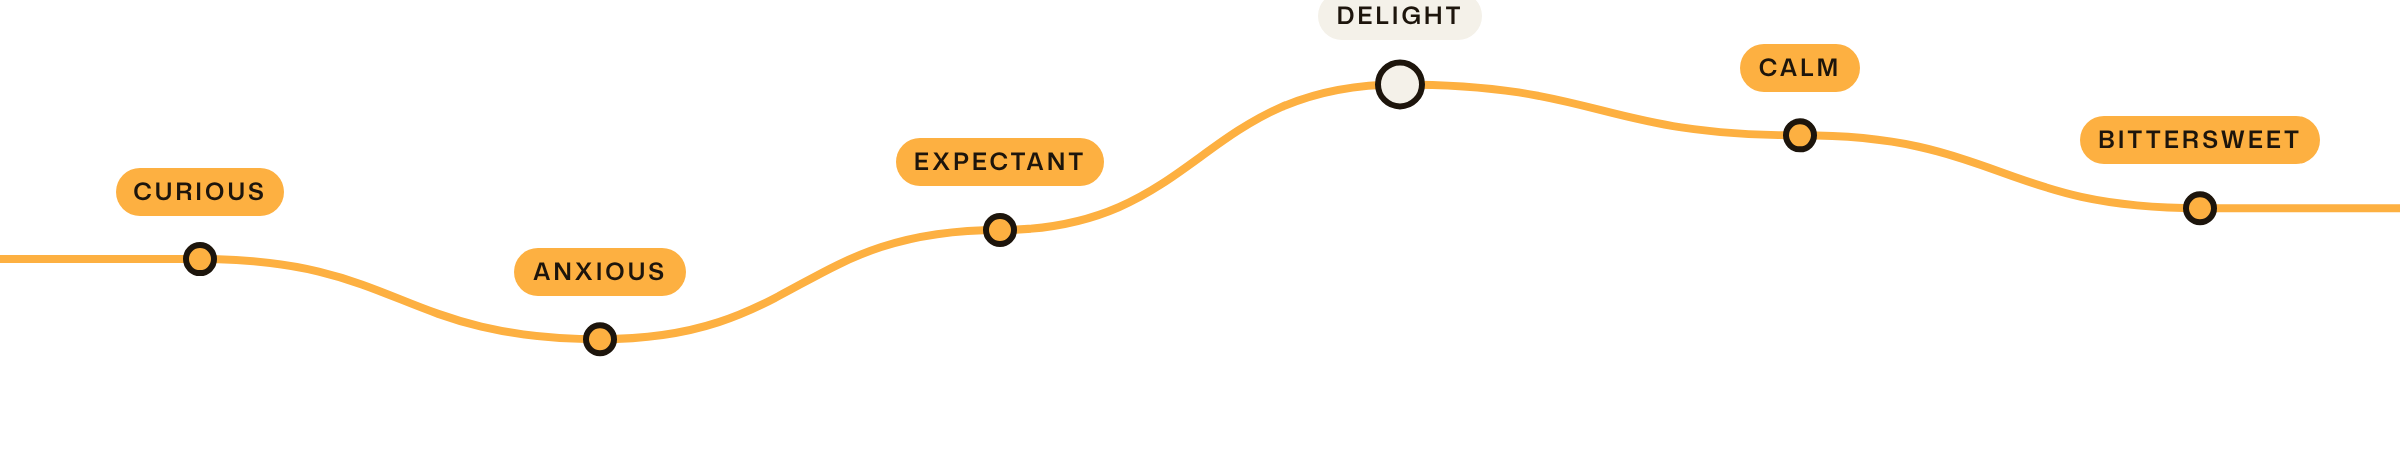
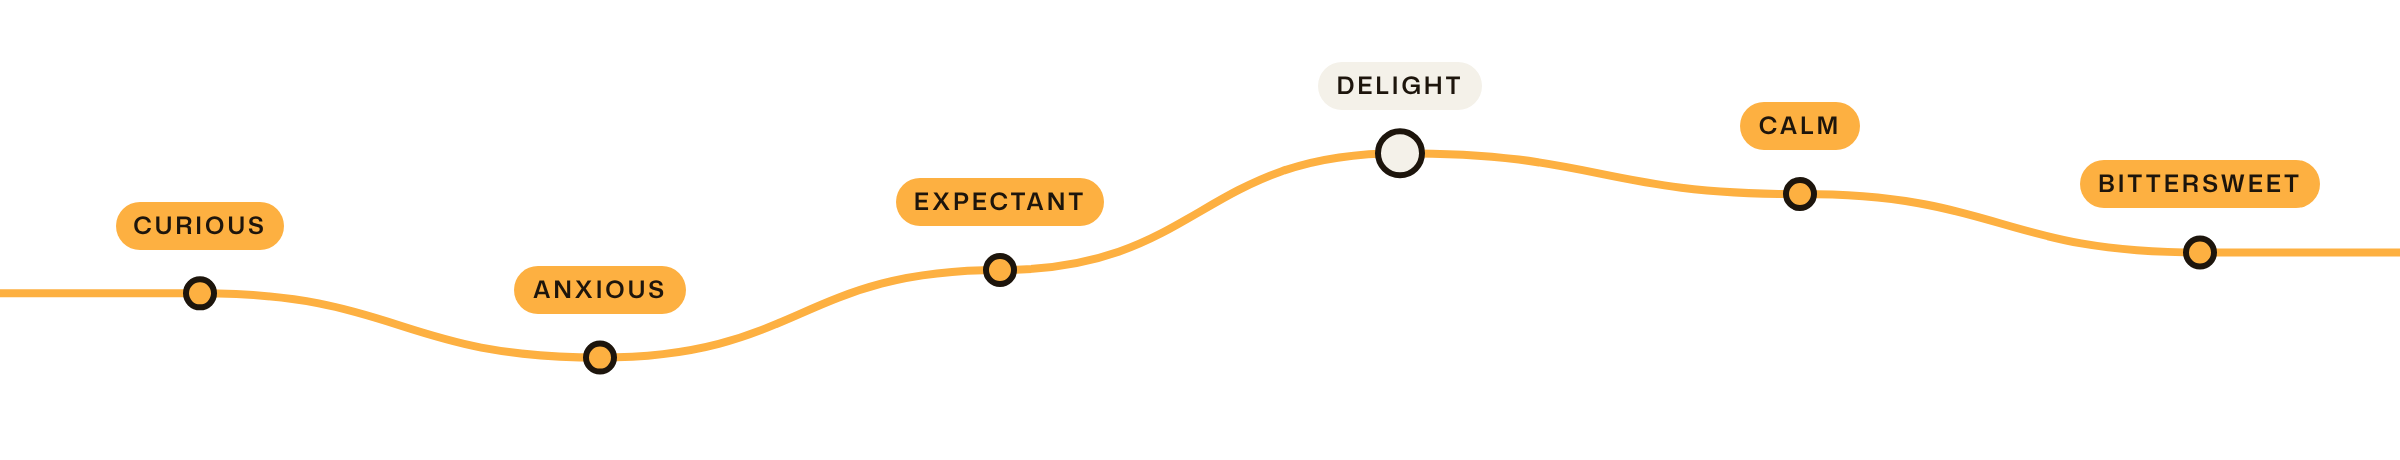
v122: Ekmaati type-led cover, handwritten research journey, map label fix, centred scroll hint
- New cover: "Ek maati / ONE CLAY" with the mark large on earth, river ripples below the mark, no packaging
- Research redone with no card backgrounds: Sijo's handwriting and stickies along a journey line drawn in on scroll
- Experience map: the Delight peak sits lower so its label is no longer cut
- Mac window: "Keep scrolling" hint centred under the content

Claude-Session: https://claude.ai/code/session_013G15fzCMwgXvJexXZMdXm4

diff --git a/tools/ekmaati/slides.html b/tools/ekmaati/slides.html
@@ -19,18 +19,34 @@ section { position: relative; width: 1440px; overflow: hidden; }
 svg.river { position: absolute; inset: 0; width: 100%; height: 100%; }
 .eye { font: 600 13px/1 Mona, sans-serif; letter-spacing: .14em; text-transform: uppercase; }
 
-/* 01 cover */
-.cover { height: 760px; background: var(--snow); color: var(--earth); }
-.cover .lock { position: absolute; left: 120px; top: 72px; width: 150px; }
-.cover .eye { position: absolute; left: 120px; top: 214px; color: var(--robe); }
-.cover h1 { position: absolute; left: 116px; top: 248px; font: 400 168px/.9 Rozha, serif; letter-spacing: -.01em; }
-.cover h1 b { display: block; font: 900 74px/1 Mona, sans-serif; letter-spacing: -.02em; color: var(--robe); margin-top: 14px; }
-.cover .deva { position: absolute; left: 124px; top: 508px; font: 400 30px/1 Rozha, serif; color: var(--robe); }
-.cover .lede { position: absolute; left: 120px; top: 560px; width: 600px; font-size: 20px; line-height: 1.55; color: #3B2A1C; }
-.cover .facts { position: absolute; left: 120px; bottom: 44px; display: flex; gap: 36px; font: 500 13px/1.3 Inter; color: #6E5A48; }
-.cover .facts b { display: block; font: 600 11px/1 Mona; letter-spacing: .14em; text-transform: uppercase; color: var(--robe); margin-bottom: 6px; }
-.cover .box { position: absolute; right: 150px; bottom: 70px; height: 600px; filter: drop-shadow(0 30px 30px rgba(29,21,12,.18)); }
-.cover .ground { position: absolute; right: 70px; bottom: 52px; width: 520px; height: 60px; border-radius: 50%; background: radial-gradient(closest-side, rgba(118,78,44,.22), rgba(118,78,44,0)); }
+/* 01 cover: the mark on earth, river lines rippling out from its base like water */
+.cover { height: 760px; background: var(--earth); color: var(--snow); }
+.cover .mark { position: absolute; left: 820px; top: 70px; height: 560px; }
+.cover .eye { position: absolute; left: 120px; top: 96px; color: var(--gold); }
+.cover h1 { position: absolute; left: 112px; top: 132px; font: 400 196px/.86 Rozha, serif; letter-spacing: -.015em; }
+.cover h1 b { display: block; font: 900 104px/1 Mona, sans-serif; letter-spacing: -.025em; color: var(--gold); margin-top: 18px; }
+.cover .deva { position: absolute; left: 122px; top: 470px; font: 400 40px/1 Rozha, serif; color: #CDBFA8; }
+.cover .lede { position: absolute; left: 120px; top: 540px; width: 560px; font-size: 19px; line-height: 1.55; color: #CDBFA8; }
+.cover .lede b { color: var(--snow); font-weight: 600; }
+.cover .facts { position: absolute; left: 120px; bottom: 44px; display: flex; gap: 40px; font: 500 13px/1.3 Inter; color: #A8977C; }
+.cover .facts b { display: block; font: 600 11px/1 Mona; letter-spacing: .14em; text-transform: uppercase; color: var(--gold); margin-bottom: 6px; }
+
+/* 07 research: the journey, with Sijo's own handwriting lifted off the paper (brand/hand-*.png) */
+.research { height: 1240px; background: var(--snow); color: var(--earth); padding: 96px 120px 0; }
+.research .eye { color: var(--robe); }
+.research h2 { margin-top: 22px; font: 400 76px/.95 Rozha, serif; }
+.research h2 b { display: block; font: 900 84px/.95 Mona, sans-serif; letter-spacing: -.025em; }
+.research .intro { position: absolute; left: 760px; top: 150px; width: 560px; font-size: 18px; line-height: 1.6; color: #4A3826; }
+.phases { position: absolute; left: 120px; right: 120px; top: 360px; display: grid; grid-template-columns: repeat(4, 1fr); }
+.phases p { font: 600 12px/1 Mona; letter-spacing: .16em; text-transform: uppercase; color: var(--robe); padding-top: 14px; border-top: 1.5px solid #D9CCB6; }
+.axis { position: absolute; left: 52px; font: 600 11px/1 Mona; letter-spacing: .16em; text-transform: uppercase; color: #A8977C; transform: rotate(-90deg); transform-origin: left top; }
+.journey { position: absolute; left: 0; top: 400px; width: 1440px; height: 820px; }
+.journey svg { position: absolute; inset: 0; overflow: visible; }
+.journey .hand { position: absolute; filter: drop-shadow(0 6px 10px rgba(29,21,12,.10)); }
+.stop { position: absolute; width: 230px; }
+.stop h4 { font: 700 17px/1.2 Mona, sans-serif; color: var(--earth); }
+.stop h4 span { font: 500 12px/1 GSCode, monospace; color: var(--robe); margin-right: 6px; }
+.stop p { margin-top: 6px; font: italic 400 13.5px/1.45 GSCode, monospace; color: #8A5A32; }
 
 /* 21 experience map */
 .map { height: 1000px; background: var(--earth); color: var(--snow); padding: 96px 120px 0; }
@@ -57,14 +73,34 @@ svg.river { position: absolute; inset: 0; width: 100%; height: 100%; }
 
 <section class="cover" data-slide="01">
   <svg class="river" id="r-cover" aria-hidden="true"></svg>
-  <img class="lock" src="brand/lockup.png" alt="">
-  <p class="eye">Branding · Packaging · NID Semester 2 · 2026</p>
+  <p class="eye">Ekmaati · Branding · Packaging · 2026</p>
   <h1>Ek maati<b>ONE CLAY</b></h1>
   <p class="deva">एक माती</p>
-  <p class="lede">A name, a mark and a temple-shaped box for the GI-tagged clay Ganesh idols of Pen. The idol comes from the river and goes back to it. The box stays, because the box is the temple.</p>
-  <div class="facts"><p><b>Craft</b>Pen, Maharashtra · GI 2024</p><p><b>Made</b>Name, mark, type, colour, temple box</p><p><b>Box</b>Folds flat, no tape, no plastic</p></div>
-  <div class="ground"></div>
-  <img class="box" src="../../work/ekmaati/fx/real/temple-34@2x.webp" alt="">
+  <p class="lede">A name, a mark and a temple-shaped box for the clay Ganesh idols of Pen. <b>The idol goes back to the river. The box stays, because the box is the temple.</b></p>
+  <div class="facts"><p><b>Craft</b>Pen, Maharashtra · GI 2024</p><p><b>Made</b>Name, mark, type, colour, box</p><p><b>Role</b>Sole designer, NID Semester 2</p></div>
+  <img class="mark" src="brand/mark.png" alt="">
+</section>
+
+<section class="research" data-slide="07">
+  <p class="eye">05 · Research</p>
+  <h2>How I got<b>TO THE CLAY</b></h2>
+  <p class="intro">From chart paper to a temple-shaped box. The line opens up where I explored and narrows where I decided, and the handwriting is mine, straight off the paper at each step.</p>
+  <div class="phases"><p>Research</p><p>Define</p><p>Design</p><p>Make</p></div>
+  <p class="axis" style="top:640px">Explore</p><p class="axis" style="top:1150px">Decide</p>
+  <div class="journey" data-fx-draw="research-journey">
+    <svg viewBox="0 0 1440 820" width="1440" height="820" id="jr"></svg>
+    <img class="hand" src="brand/hand-words.png" alt="" style="left:60px; top:470px; width:300px; transform:rotate(-3deg)">
+    <div class="stop" style="left:322px; top:44px"><h4><span>01</span>Word dump</h4><p>Every word Pen idols carry, on chart paper.</p></div>
+    <img class="hand" src="brand/hand-mindmap.png" alt="" style="left:466px; top:140px; width:300px; transform:rotate(2deg)">
+    <div class="stop" style="left:548px; top:520px; width:200px"><h4><span>02</span>Mind map</h4><p>Narrowed to “maati heritage”.</p></div>
+    <div class="stop" style="left:400px; top:724px; width:236px; text-align:right"><h4><span>03</span>Audience &amp; position</h4><p>Urban 25 to 40. Commodity to keepsake.</p></div>
+    <img class="hand" src="brand/hand-pencil.png" alt="" style="left:730px; top:566px; width:290px; transform:rotate(-2deg)">
+    <div class="stop" style="left:884px; top:34px; width:210px"><h4><span>04</span>Pencil marks</h4><p>Trunks, om, temples, the number one.</p></div>
+    <img class="hand" src="brand/hand-names.png" alt="" style="left:1048px; top:520px; width:186px; transform:rotate(4deg)">
+    <div class="stop" style="left:790px; top:452px; width:210px; text-align:right"><h4><span>05</span>Names</h4><p>Penkara, Clay &amp; Shrine, Ekmaati.</p></div>
+    <div class="stop" style="left:1204px; top:34px; width:200px"><h4><span>06</span>Cardboard ×3</h4><p>Three boxes in one, curtains, temple.</p></div>
+    <div class="stop" style="left:1150px; top:740px; width:230px"><h4><span>07</span>Temple box</h4><p>The packaging becomes the altar.</p></div>
+  </div>
 </section>
 
 <section class="map" data-slide="21">
@@ -96,27 +132,27 @@ svg.river { position: absolute; inset: 0; width: 100%; height: 100%; }
 
 <script>
 // River lines: offset loops around an off-canvas centre, gap 40 to 48 px, three slow waves, each ring a little different
-function river(svg, { cx, cy, r0, n, color, width = 1.4, amp = 9, seed = 1, clip }) {
+function river(svg, { cx, cy, r0, n, color, width = 1.4, amp = 9, seed = 1, clip, squash = 0.62 }) {
   const ns = "http://www.w3.org/2000/svg"; let s = seed; const rnd = () => ((s = (s * 9301 + 49297) % 233280) / 233280);
   if (clip) { const d = document.createElementNS(ns, "defs"); d.innerHTML = clip; svg.appendChild(d); }
   const g = document.createElementNS(ns, "g"); if (clip) g.setAttribute("clip-path", "url(#" + svg.id + "-clip)"); svg.appendChild(g);
   let r = r0;
   for (let k = 0; k < n; k++) {
     r += 40 + rnd() * 8; const ph = rnd() * 6.28, a2 = amp * (0.7 + rnd() * 0.6), pts = [];
-    for (let t = 0; t <= 720; t++) { const th = t / 720 * Math.PI * 2, rr = r + a2 * Math.sin(3 * th + ph) + a2 * 0.4 * Math.sin(5 * th + ph * 1.7); pts.push((cx + rr * Math.cos(th)).toFixed(1) + "," + (cy + rr * Math.sin(th) * 0.62).toFixed(1)); }
+    for (let t = 0; t <= 720; t++) { const th = t / 720 * Math.PI * 2, rr = r + a2 * Math.sin(3 * th + ph) + a2 * 0.4 * Math.sin(5 * th + ph * 1.7); pts.push((cx + rr * Math.cos(th)).toFixed(1) + "," + (cy + rr * Math.sin(th) * squash).toFixed(1)); }
     const p = document.createElementNS(ns, "path"); p.setAttribute("d", "M" + pts.join("L") + "Z"); p.setAttribute("fill", "none"); p.setAttribute("stroke", color); p.setAttribute("stroke-width", width); g.appendChild(p);
   }
 }
-// cover: rings from a centre below the right edge; kept clear of the text block on the left
-river(document.getElementById("r-cover"), { cx: 1260, cy: 1180, r0: 330, n: 16, color: "#D9CCB6", seed: 7,
-  clip: '<clipPath id="r-cover-clip"><rect x="760" y="0" width="680" height="760"/></clipPath>' });
+// cover: ripples spreading from the mark's base, as the clay goes back to the water; they start clear of the mark
+river(document.getElementById("r-cover"), { cx: 1105, cy: 700, r0: 120, n: 18, color: "#45331F", seed: 7, squash: 0.16,
+  clip: '<clipPath id="r-cover-clip"><rect x="790" y="646" width="650" height="114"/></clipPath>' });   // only below the mark: water under it, never touching it
 // map: faint rings on earth, top right, away from the columns' text
 river(document.getElementById("r-map"), { cx: 1500, cy: -260, r0: 120, n: 9, color: "#2E2216", seed: 3,
   clip: '<clipPath id="r-map-clip"><rect x="0" y="0" width="1440" height="300"/></clipPath>' });
 
 // the feeling curve: one river line through six feelings, with offset contours echoing it above and below
 const F = [["curious", .58], ["anxious", .8], ["expectant", .5], ["delight", .1], ["calm", .24], ["bittersweet", .44]];
-const W = 1200, Hh = 230, cx = (i) => (i + 0.5) * W / 6, cy = (v) => 24 + v * (Hh - 48);
+const W = 1200, Hh = 230, cx = (i) => (i + 0.5) * W / 6, cy = (v) => 62 + v * (Hh - 84);   // room above the peak for its label
 const P = F.map(([, v], i) => [cx(i), cy(v)]);
 const path = (off) => { const q = P.map(([x, y]) => [x, y + off]); let d = `M${-20},${q[0][1]} L${q[0][0]},${q[0][1]}`;
   for (let i = 0; i < q.length - 1; i++) { const [x0, y0] = q[i], [x1, y1] = q[i + 1], m = (x1 - x0) / 2; d += ` C${x0 + m},${y0} ${x1 - m},${y1} ${x1},${y1}`; }
@@ -133,5 +169,15 @@ P.forEach(([x, y], i) => {
   fo.innerHTML = `<div xmlns="http://www.w3.org/1999/xhtml" style="text-align:center"><span style="display:inline-block;font:600 12px/1 Mona;letter-spacing:.12em;text-transform:uppercase;color:#1D150C;background:${i === 3 ? "#F4F1E9" : "#FDB041"};padding:6px 9px;border-radius:999px">${F[i][0]}</span></div>`;
   svg.appendChild(fo);
 });
+// research journey: a smooth line through the seven stops, explore at the top and decide at the bottom
+(() => {
+  const pts = [[80, 420], [300, 120], [520, 560], [660, 720], [860, 110], [1020, 470], [1180, 110], [1340, 640]], ns = "http://www.w3.org/2000/svg", svg = document.getElementById("jr");
+  let d = `M${pts[0][0]},${pts[0][1]}`;
+  for (let i = 0; i < pts.length - 1; i++) { const p0 = pts[Math.max(0, i - 1)], p1 = pts[i], p2 = pts[i + 1], p3 = pts[Math.min(pts.length - 1, i + 2)];
+    d += ` C${p1[0] + (p2[0] - p0[0]) / 6},${p1[1] + (p2[1] - p0[1]) / 6} ${p2[0] - (p3[0] - p1[0]) / 6},${p2[1] - (p3[1] - p1[1]) / 6} ${p2[0]},${p2[1]}`; }
+  const path = document.createElementNS(ns, "path"); path.setAttribute("d", d); path.setAttribute("fill", "none"); path.setAttribute("stroke", "#1D150C"); path.setAttribute("stroke-width", 2.4); svg.appendChild(path);
+  pts.slice(1).forEach(([x, y], i) => { const c = document.createElementNS(ns, "circle"); c.setAttribute("cx", x); c.setAttribute("cy", y); c.setAttribute("r", i === 6 ? 12 : 8);
+    c.setAttribute("fill", i === 6 ? "#1D150C" : "#FDB041"); c.setAttribute("stroke", i === 6 ? "#FDB041" : "#F4F1E9"); c.setAttribute("stroke-width", 3); svg.appendChild(c); });
+})();
 </script>
 </body></html>

diff --git a/content.js b/content.js
@@ -146,13 +146,13 @@ window.SITE = {
     { title: "Ekmaati", tag: "Branding \u00b7 Packaging", color: "#2A1A10", status: "NID Semester 2 project", url: "#",
       summary: "Brand identity, naming and temple-form packaging for the GI-tagged clay Ganesh idols of Pen.",
       case: { slug: "ekmaati", glance: ["glance.webp", 704, "At a glance: what I made (a temple box prototyped by hand that folds with no tape or plastic, plus the name, mark, colour, type, die line and two posters, shown at the NID Semester 2 jury), three cardboard prototypes and fourteen typefaces tried first, and the main choices from the decision log."], coverSlide: ["fx/cover-slide.webp", 900], cover: "13.webp", fx: "ekmaati-fx.js", sections: [   // [1× image (a 2× "@2x" file sits beside it), height px at 1440 wide, description], exported at 2× from Figma "ekmaati final"
-        ["01.webp", 760, "Ekmaati cover: the lockup, Ek maati, one clay (एक माती), and the idea: a name, a mark and a temple-shaped box for the clay Ganesh idols of Pen; the idol goes back to the river, the box stays because it is the temple. The real box with the idol inside, standing on the brand's river lines."],
+        ["01.webp", 760, "Ekmaati cover: Ek maati, one clay (एक माती), with the mark large on earth and river lines rippling under it like water. A name, a mark and a temple-shaped box for the clay Ganesh idols of Pen; the idol goes back to the river, the box stays because it is the temple."],
         ["02.webp", 240, "Snapshot: sole designer for research, naming, identity, packaging and campaign; deliverables include the name, mark, colour, type, temple box, die line and two posters; a real project, prototyped by hand."],
         ["03.webp", 960, "Statement: turning a seasonal commodity into a keepsake, with a name, a mark and a temple-shaped box for the clay gods of Pen."],
         ["04.webp", 529, "The human friction: a family brings home a hand-made river-clay idol in bubble wrap and tape; the missing pieces were a name, an identity and a box."],
         ["05.webp", 1000, "Sold by the row: intricate river-clay idols from a GI-registered craft, sold like a seasonal commodity without a name or a maker."],
         ["06.webp", 620, "Why it matters: Pen Ganesh idols got a Geographical Indication in 2024, plaster-of-Paris idols were banned in 2020, and the box must survive the monsoon."],
-        ["07.webp", 1300, "Research: how I got to the clay, a process curve from research and definition to design and making."],
+        ["07.webp", 1240, "Research, how I got to the clay: a journey line through research, define, design and make, opening up to explore and narrowing to decide, with my own handwriting lifted off the paper at each step: the word dump, the maati heritage mind map, pencil marks and the names sticky note."],
         ["08.webp", 1100, "One clay: Ek maati means one clay in Marathi, the river clay every idol is made from, linking river, clay, hands and home."],
         ["09.webp", 691, "Naming: three routes, Penkara, Clay and Shrine, and Ekmaati, judged against faith, uniqueness and the buyer's language."],
         ["10.webp", 593, "Four design principles: from the clay, faith first, keep don't discard, and small places."],

diff --git a/index.html b/index.html
@@ -24,11 +24,11 @@
   <meta property="og:image:height" content="630">
   <meta property="og:image:alt" content="Sijo Joseph, product, UX and AI designer, with four case study covers">
   <meta name="twitter:card" content="summary_large_image">
-  <script src="update.js?v=121"></script>
-  <script src="gate.js?v=121"></script>
-  <link href="fonts/fonts.css?v=121" rel="stylesheet">
-  <link rel="stylesheet" href="styles.css?v=121">
-  <link rel="stylesheet" href="reader.css?v=121">
+  <script src="update.js?v=122"></script>
+  <script src="gate.js?v=122"></script>
+  <link href="fonts/fonts.css?v=122" rel="stylesheet">
+  <link rel="stylesheet" href="styles.css?v=122">
+  <link rel="stylesheet" href="reader.css?v=122">
   <script type="importmap">
   {
     "imports": {
@@ -42,10 +42,10 @@
   <link rel="modulepreload" href="vendor/three/examples/jsm/loaders/GLTFLoader.js">
   <link rel="modulepreload" href="vendor/three/examples/jsm/controls/OrbitControls.js">
   <link rel="modulepreload" href="vendor/three/examples/jsm/libs/meshopt_decoder.module.js">
-  <link rel="modulepreload" href="main.js?v=121">
-  <link rel="modulepreload" href="sound.js?v=121">
-  <link rel="modulepreload" href="room-utils.js?v=121">
-  <link rel="modulepreload" href="cat.js?v=121">
+  <link rel="modulepreload" href="main.js?v=122">
+  <link rel="modulepreload" href="sound.js?v=122">
+  <link rel="modulepreload" href="room-utils.js?v=122">
+  <link rel="modulepreload" href="cat.js?v=122">
   <script type="application/ld+json">{"@context": "https://schema.org", "@type": "Person", "name": "Sijo Joseph", "url": "https://sijo.work/", "jobTitle": "Product, UX and AI designer", "alumniOf": {"@type": "CollegeOrUniversity", "name": "National Institute of Design, Bengaluru"}, "address": {"@type": "PostalAddress", "addressLocality": "Bengaluru", "addressCountry": "IN"}, "sameAs": ["https://www.linkedin.com/in/sijodesign", "https://github.com/sijojoseph7509-a11y"], "knowsAbout": ["Product design", "UX design", "Interaction design", "Information design", "Wayfinding", "Brand identity", "AI-assisted prototyping"]}</script>
 </head>
 <body>
@@ -188,11 +188,11 @@
     </div>
   </noscript>
 
-  <script src="content.js?v=121"></script>
-  <script src="track.js?v=121"></script>
-  <script src="icons.js?v=121"></script>
-  <script src="os.js?v=121"></script>
-  <script src="music.js?v=121"></script>
-  <script type="module" src="main.js?v=121"></script>
+  <script src="content.js?v=122"></script>
+  <script src="track.js?v=122"></script>
+  <script src="icons.js?v=122"></script>
+  <script src="os.js?v=122"></script>
+  <script src="music.js?v=122"></script>
+  <script type="module" src="main.js?v=122"></script>
 </body>
 </html>

diff --git a/ekmaati-fx.js b/ekmaati-fx.js
@@ -21,16 +21,18 @@ export default function ekmaatiFx(caseEl, { slug, v }) {
   const after = imgs[18] || imgs[imgs.length - 1];   // 19.webp, "The temple box"
   if (!after) return;
 
-  // ---------- the experience map: its feeling curve draws itself in (layer from tools/ekmaati/slides.mjs) ----------
-  const mapImg = imgs[20];   // 21.webp
-  if (mapImg) {
-    const w = document.createElement("div"); w.className = "ekx-mapw"; mapImg.replaceWith(w); w.appendChild(mapImg);
+  // ---------- self-drawing layers (tools/ekmaati/slides.mjs): the research journey and the map's feeling curve ----------
+  // [section index, layer, x, y, w, h in the slide's 1440-wide units, seconds]
+  for (const [k, f, x, y, w, h, sec] of [[6, "research-journey", 0, 400, 1440, 820, 4.2], [20, "map-curve", 120, 560, 1200, 230, 2.6]]) {
+    const im = imgs[k]; if (!im) continue;
+    const H = +im.getAttribute("height") || 1000;
+    const wrap = document.createElement("div"); wrap.className = "ekx-mapw"; im.replaceWith(wrap); wrap.appendChild(im);
     const c = document.createElement("img"); c.className = "ekx-curve"; c.alt = ""; c.setAttribute("aria-hidden", "true"); c.decoding = "async";
-    c.src = A("map-curve.webp"); c.srcset = `${A("map-curve.webp")} 1x, ${A("map-curve@2x.webp")} 2x`;
-    Object.assign(c.style, { left: 120 / 1440 * 100 + "%", top: 560 / 1000 * 100 + "%", width: 1200 / 1440 * 100 + "%" });
-    w.appendChild(c);
+    c.src = A(f + ".webp"); c.srcset = `${A(f + ".webp")} 1x, ${A(f + "@2x.webp")} 2x`;
+    Object.assign(c.style, { left: x / 1440 * 100 + "%", top: y / H * 100 + "%", width: w / 1440 * 100 + "%", transitionDuration: sec + "s" });
+    wrap.appendChild(c);
     if (reduce) c.classList.add("on");
-    else { const io = new IntersectionObserver((es) => { if (es[0].isIntersecting) { c.classList.add("on"); io.disconnect(); } }, { threshold: 0.5 }); io.observe(w); cleanups.push(() => io.disconnect()); }
+    else { const io = new IntersectionObserver((es) => { if (es[0].isIntersecting) { c.classList.add("on"); io.disconnect(); } }, { threshold: 0.35 }); io.observe(wrap); cleanups.push(() => io.disconnect()); }
   }
 
   // ---------- section 1: the box you can peel ----------

diff --git a/styles.css b/styles.css
@@ -811,7 +811,10 @@ button.card .cover::before, button.card .cover::after { display: none; }   /* re
 /* the text version's pictures are always visible (the fade-in above is only for the layout's section images) */
 .case.case-text img { opacity: 1; transition: none; background: none; }
 
-/* "Keep scrolling for …": the end of a Mac section; its bar fills as you scroll on, then the next section opens (os.js) */
-.next-hint { margin: 48px auto 28px; width: min(320px, 80%); text-align: center; font-size: 13px; color: rgba(127,127,127,.95); --p: 0; }
-.next-hint i { display: block; height: 3px; margin-top: 10px; border-radius: 3px; background: rgba(127,127,127,.22); overflow: hidden; position: relative; }
+/* "Keep scrolling for …": the end of a Mac section; its bar fills as you scroll on, then the next section opens (os.js).
+   It spans the whole window body (whatever layout the section uses) and sits centred under the content. */
+.next-hint { grid-column: 1 / -1; flex-basis: 100%; justify-self: center; align-self: end; display: flex; flex-direction: column; align-items: center; gap: 8px;
+  width: 100%; margin: 36px 0 8px; padding: 18px 0 6px; font-size: 12px; letter-spacing: .02em; color: rgba(127,127,127,.9); --p: 0; }
+.next-hint span::after { content: " ↓"; }
+.next-hint i { display: block; width: 140px; height: 3px; border-radius: 3px; background: rgba(127,127,127,.2); overflow: hidden; position: relative; }
 .next-hint i::after { content: ""; position: absolute; inset: 0; background: #0a7cf5; transform: scaleX(var(--p)); transform-origin: left; transition: transform .15s; }

diff --git a/main.js b/main.js
@@ -5,8 +5,8 @@ import { RoomEnvironment } from "three/addons/environments/RoomEnvironment.js";
 import { GLTFLoader } from "three/addons/loaders/GLTFLoader.js";
 import { MeshoptDecoder } from "three/addons/libs/meshopt_decoder.module.js";
 import { mergeGeometries } from "three/addons/utils/BufferGeometryUtils.js";
-import { Sound } from "./sound.js?v=121";
-import { sharpen, rr, bezier, tileNoise, wrapText } from "./room-utils.js?v=121";
+import { Sound } from "./sound.js?v=122";
+import { sharpen, rr, bezier, tileNoise, wrapText } from "./room-utils.js?v=122";
 
 const S = window.SITE;
 const TOUCH = matchMedia("(pointer: coarse)").matches;   // phones & tablets: say "tap", no hover effects

diff --git a/ekmaati-fx.css b/ekmaati-fx.css
@@ -65,7 +65,7 @@
 }
 @media (prefers-reduced-motion: reduce) { .ekx-tip { animation: none; } .ekx-ph img { transition: none; } }
 
-/* the experience map's feeling curve draws itself in, left to right */
+/* the research journey and the experience map's feeling curve draw themselves in, left to right */
 .ekx-mapw { position: relative; }
 .case .ekx-mapw img.ekx-curve { position: absolute; height: auto; opacity: 1; background: none; clip-path: inset(-10% 100% -10% 0); transition: clip-path 2.6s cubic-bezier(.45,.05,.25,1); pointer-events: none; }
 .case .ekx-mapw img.ekx-curve.on { clip-path: inset(-10% 0 -10% 0); }

diff --git a/HANDOVER.md b/HANDOVER.md
@@ -396,6 +396,7 @@ explorations · sketches · side projects · ideas"), poster text, terminal mess
 - **v119:** the Ekmaati idol is a solid built at load from tex/idol.webp (ekmaati-fx.js idolRelief: the cut-out's outline inflated by distance from the edge, photo on the front, the same cut-out tinted to clay on the back). box.glb's idol card is hidden: it was two-sided with a mirrored back that showed through the cut-out as a second head. A full 360-degree model would need an Object Capture scan of the real idol (object-capture skill, on the Mac).
 - **v120:** the idol sits on the plinth floor with a soft contact shadow, has a fuller profile (eased flat at the outline so edges stay clean) and uses the photo as a bump map for carved folds.
 - **v121:** Ekmaati: new cover (01.webp, 760 tall so it fits a laptop screen) and a rebuilt experience map (21.webp) on earth, both from tools/ekmaati/slides.html via slides.mjs; the map's feeling curve is a river line drawn in by ekmaati-fx.js (fx/map-curve.webp). River lines are drawn in SVG to the brand-asset rules; mark and lockup cut from the case study's 2x slides (tools/ekmaati/brand/). The three films are replaced by one unboxing film recorded from the 3D box (tools/ekmaati/film.mjs, stepped clock): fx/film-unbox.mp4. The idol no longer turns toward the viewer; Peel the next tab eases the box round to each tab, and the box turns to face the idol once all three are off. Mac window: scrolling on from the end of a section opens the next one (os.js, a gesture that starts at the end, one section per gesture, "Keep scrolling for ..." hint with a bar).
+- **v122:** Ekmaati: a new type-led cover (01.webp, 760 tall): "Ek maati / ONE CLAY" with the mark large on earth and river ripples kept below the mark, no packaging. The research section (07.webp, 1240 tall) is redone on plain snow with no card backgrounds: Sijo's own handwriting and stickies (cut from the 2x slide into tools/ekmaati/brand/hand-*.png) sit along a journey line that ekmaati-fx.js draws in on scroll (fx/research-journey.webp, the same clip-path wipe as the map curve). Map: the Delight peak sits lower so its label is no longer cut at the top. Mac window: the "Keep scrolling" hint spans the full grid and sits centred under the content.
 - Work cards and About thumbnails use `case.coverSlide` when a project gives one (Syntra: `fx/cover-slide.webp`, 1440 × 900), otherwise the first section.
 - Desk folders: tab width now shares the edge (`TAB_W`), so 4+ projects never overlap.
 - ⚠ Testing note (14 Oct 2026): another session had an http-server on 127.0.0.1:4322 serving the `.claude/worktrees/goofy-solomon-8f688e` copy — always check `lsof -iTCP:<port>` or use a fresh port before trusting QA results.
